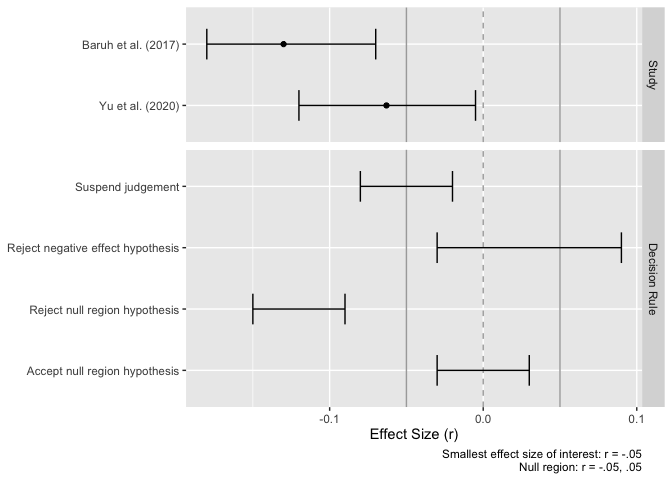
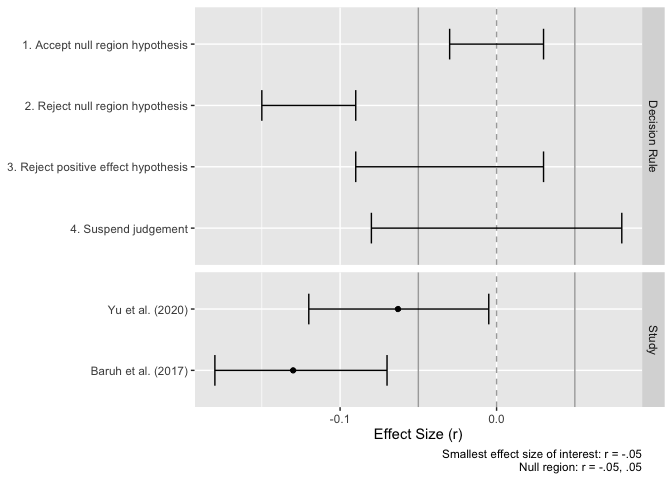
- updated van Lissa's Bayes factor

diff --git a/README.md b/README.md
@@ -1,4 +1,4 @@
-Response to Yu et al. (2020)
+Comment on Yu et al. (2020)
 ================
 
   - [Set-up](#set-up)
@@ -16,7 +16,7 @@ In what follows, we reanalyze the study by Yu et al. (2020).
 ``` r
 options(width = 130) # set output pagewidth
 set.seed (190819)  # set seed 
-library(tidyverse); library(bain)  # load packages
+library(bain); library(lavaan); library(tidyverse)  # load packages
 ```
 
 We first recreate the covariance matrix reported by Yu et al. (2020).
@@ -24,7 +24,7 @@ We first recreate the covariance matrix reported by Yu et al. (2020).
 ``` r
 vars <- c("pri_ris", "pri_con", "dis_int", "dis_beh")
 cor_c <- c(1, .62, -.203, -.165, 1, -.159, -.063, 1, .487, 1)
-cor_ma <- lavaan::lav_matrix_vech_reverse(cor_c, diagonal = TRUE)
+cor_ma <- lav_matrix_vech_reverse(cor_c, diagonal = TRUE)
 colnames(cor_ma) <- vars
 rownames(cor_ma) <- vars
 cor_ma
@@ -59,14 +59,14 @@ model_reported <- "
   dis_int ~ pri_con + pri_ris
   dis_beh ~ pri_ris + dis_int
 "
-fit_reported <- lavaan::sem(model_reported, sample.cov = cor_ma, sample.nobs = n_hm)
+fit_reported <- sem(model_reported, sample.cov = cor_ma, sample.nobs = n_hm)
 ```
 
 The model shows the following fit:
 
 ``` r
 fit_indices <- c("chisq", "df", "pvalue", "cfi", "nfi", "rmsea", "srmr")
-lavaan::fitMeasures(fit_reported, fit_indices)
+fitMeasures(fit_reported, fit_indices)
 ```
 
     ##  chisq     df pvalue    cfi    nfi  rmsea   srmr 
@@ -81,7 +81,7 @@ Note that there is one degree of freedom, because the path `pri_con` on
 We then look at the results of the structural model.
 
 ``` r
-lavaan::summary(fit_reported, standardized = TRUE, header = FALSE)
+summary(fit_reported, standardized = TRUE, header = FALSE)
 ```
 
     ## 
@@ -127,13 +127,13 @@ model_saturated <- "
   dis_int ~ pri_con + pri_ris
   dis_beh ~ pri_con + pri_ris + dis_int
 "
-fit_saturated <- lavaan::sem(model_saturated, sample.cov = cor_ma, sample.nobs = n_hm)
+fit_saturated <- sem(model_saturated, sample.cov = cor_ma, sample.nobs = n_hm)
 ```
 
 The model shows the following fit:
 
 ``` r
-lavaan::fitMeasures(fit_saturated, fit_indices)
+fitMeasures(fit_saturated, fit_indices)
 ```
 
     ##  chisq     df pvalue    cfi    nfi  rmsea   srmr 
@@ -147,7 +147,7 @@ get “perfect” fit.
 We then look at the results of the structural model.
 
 ``` r
-lavaan::summary(fit_saturated, standardized = TRUE, header = FALSE, ci = TRUE)
+summary(fit_saturated, standardized = TRUE, header = FALSE, ci = TRUE)
 ```
 
     ## 
@@ -202,15 +202,17 @@ used to test support for the null hypothesis.
 # make table with data
 d_plot <- tribble(
   ~name, ~type, ~Effect, ~ll, ~ul,
-  "Accept null region hypothesis", "Decision Rule", NA, -.03, .03, 
-  "Reject null region hypothesis", "Decision Rule", NA, -.15, -.09,
-  "Reject negative effect hypothesis", "Decision Rule", NA, -.03, .09,
-  "Suspend judgement", "Decision Rule", NA, -.08, -.02,
+  "1. Accept null region hypothesis", "Decision Rule", NA, -.03, .03, 
+  "2. Reject null region hypothesis", "Decision Rule", NA, -.15, -.09,
+  "3. Reject positive effect hypothesis", "Decision Rule", NA, -.09, .03,
+  "4. Suspend judgement", "Decision Rule", NA, -.08, .08,
   "Yu et al. (2020)", "Study", -.063, -.120, -.005,
   "Baruh et al. (2017)", "Study", -.13, -.18, -.07
 ) %>% 
-  mutate(name = factor(name, levels = name),
-         type = factor(type, levels = c("Study", "Decision Rule"))
+  mutate(
+    name = factor(name, levels = name),
+    name = fct_rev(name),
+    type = factor(type, levels = c("Decision Rule", "Study"))
          )
 
 # design plot
@@ -234,10 +236,10 @@ plot
 
 ## Bayes Factors
 
-### Dienes’ Bayes Factor
-
 We now compare the likelihood of competing hypotheses using Bayes
 factors.
+
+### Dienes’ Bayes Factor
 
 ``` r
 source("fun_bayes_factor.R")  # load bayes factor function
@@ -252,9 +254,7 @@ sample_k <- 44
 sample_sd <- sample_se * sqrt(sample_k)
 ```
 
-#### Theoretical Example
-
-We first hypothesize that there is a small relation between concerns and
+We hypothesize that there is a small relation between concerns and
 information sharing. We compare the likelihood of this hypothesis, hence
 our theory, to the null hypothesis, in light of our data.
 
@@ -277,7 +277,7 @@ Bf(se = sample_se, # note that this is an error in the script and should be "se"
     ## [1] 3.962048
 
 The results show that our theory is about 4 times more likely than the
-null-hypothesis. This provides substantial support for our theory and
+null-hypothesis. This provides moderate support for our theory and
 speaks against the null hypothesis.
 
 To test whether our formula is correct, we have entered the same
@@ -289,75 +289,39 @@ Calculator](%22www.lifesci.sussex.ac.uk/home/Zoltan_Dienes/inference/bayes_facto
 The results are exactly the same, which shows that our function is
 correct.
 
-#### Empirical Example
+### Van Lissa’s BAIN
 
-We then take the data from Baruh et al. as our theory in assessing how
-large the relation between concerns and information sharing should be.
+We can also compute the Bayes factor for informed hypotheses using Van
+Lessa’s BAIN package.
 
-``` r
-# example empirical (Baruh et al. 2017)
-baruh_r <- -.13
-baruh_ll <- -.07
-baruh_se <- (baruh_r - baruh_ll) / 1.96
-baruh_n <- 37
-baruh_sd <- baruh_se * sqrt(baruh_n)
-baruh_sd <- baruh_r/2 * -1
-
-Bf(se = sample_se, 
-   obtained = sample_r,
-   uniform = 0,
-   meanoftheory = baruh_r,
-   sdtheory = baruh_sd,
-   tail = 2)
-```
-
-    ## $LikelihoodTheory
-    ## [1] 3.597161
-    ## 
-    ## $Likelihoodnull
-    ## [1] 1.41425
-    ## 
-    ## $BayesFactor
-    ## [1] 2.543512
-
-Our theory is about 2-3 times as likely as the Null hypothesis.
-
-### Van Lessa’s BAIN
-
-We can also compute the bayes factor using Van Lessa’s BAIN package (not
-reported in paper).
-
-In what follows, we compare H1: Effects are smaller than |-.05| (privacy
-paradox) with H2: Effects are larger than |-.05| (theory).
+In what follows, we compare H1: *r* \< -.05 (no privacy paradox) with
+its complement H2: *r* ≥ -.05 (privacy paradox).
 
 ``` r
 model_bf <- "
   dis_beh ~ pri_con
 "
-fit_bf <- lavaan::sem(model_bf, sample.cov = cor_ma, sample.nobs = n_hm)
-hypotheses_1 <- "dis_beh~pri_con > -.05;
-                 dis_beh~pri_con < -.05"
-bain(fit_bf, hypotheses_1)
+fit_bf <- sem(model_bf, sample.cov = cor_ma, sample.nobs = n_hm)
+
+hypothesis_1 <- "
+  dis_beh~pri_con < -.05;
+"
+bain(fit_bf, hypothesis_1)
 ```
 
     ## Bayesian informative hypothesis testing for an object of class lavaan:
     ## 
     ##    Fit   Com   BF.u  BF.c  PMPa  PMPb 
-    ## H1 0.117 0.500 0.234 0.133 0.117 0.078
-    ## H2 0.883 0.500 1.766 7.544 0.883 0.589
-    ## Hu                               0.333
+    ## H1 0.883 0.500 1.766 7.544 1.000 0.638
+    ## Hu                               0.362
     ## 
     ## Hypotheses:
-    ##   H1: dis_beh~pri_con>-.05
-    ##   H2: dis_beh~pri_con<-.05
+    ##   H1: dis_beh~pri_con<-.05
     ## 
     ## Note: BF.u denotes the Bayes factor of the hypothesis at hand versus the unconstrained hypothesis Hu. BF.c denotes the Bayes factor of the hypothesis at hand versus its complement.
 
-The hypothesis that effects are larger than |.05| is more than 7-times
-more likely than the hypothesis that effects are smaller than |.05|.
-
-In other words, given the data from Yu et al, our theory is more likely
-than the privacy paradox.
+H1 (no privacy paradox) is more than 7-times more likely than the H2
+(privacy paradox) (see “BF.c”).
 
 # Literature
 
